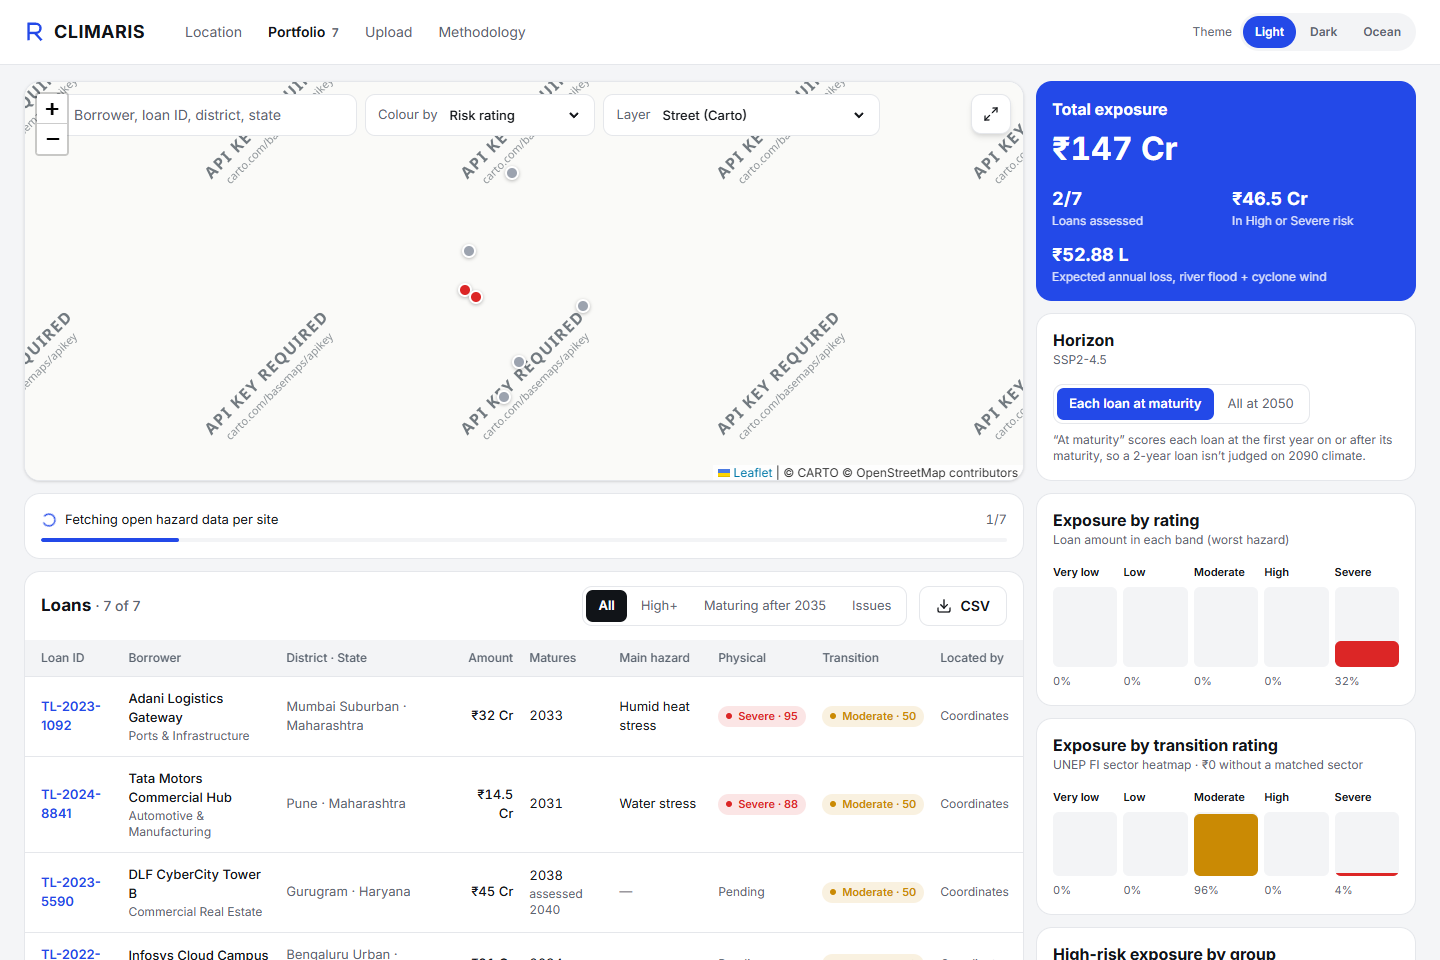
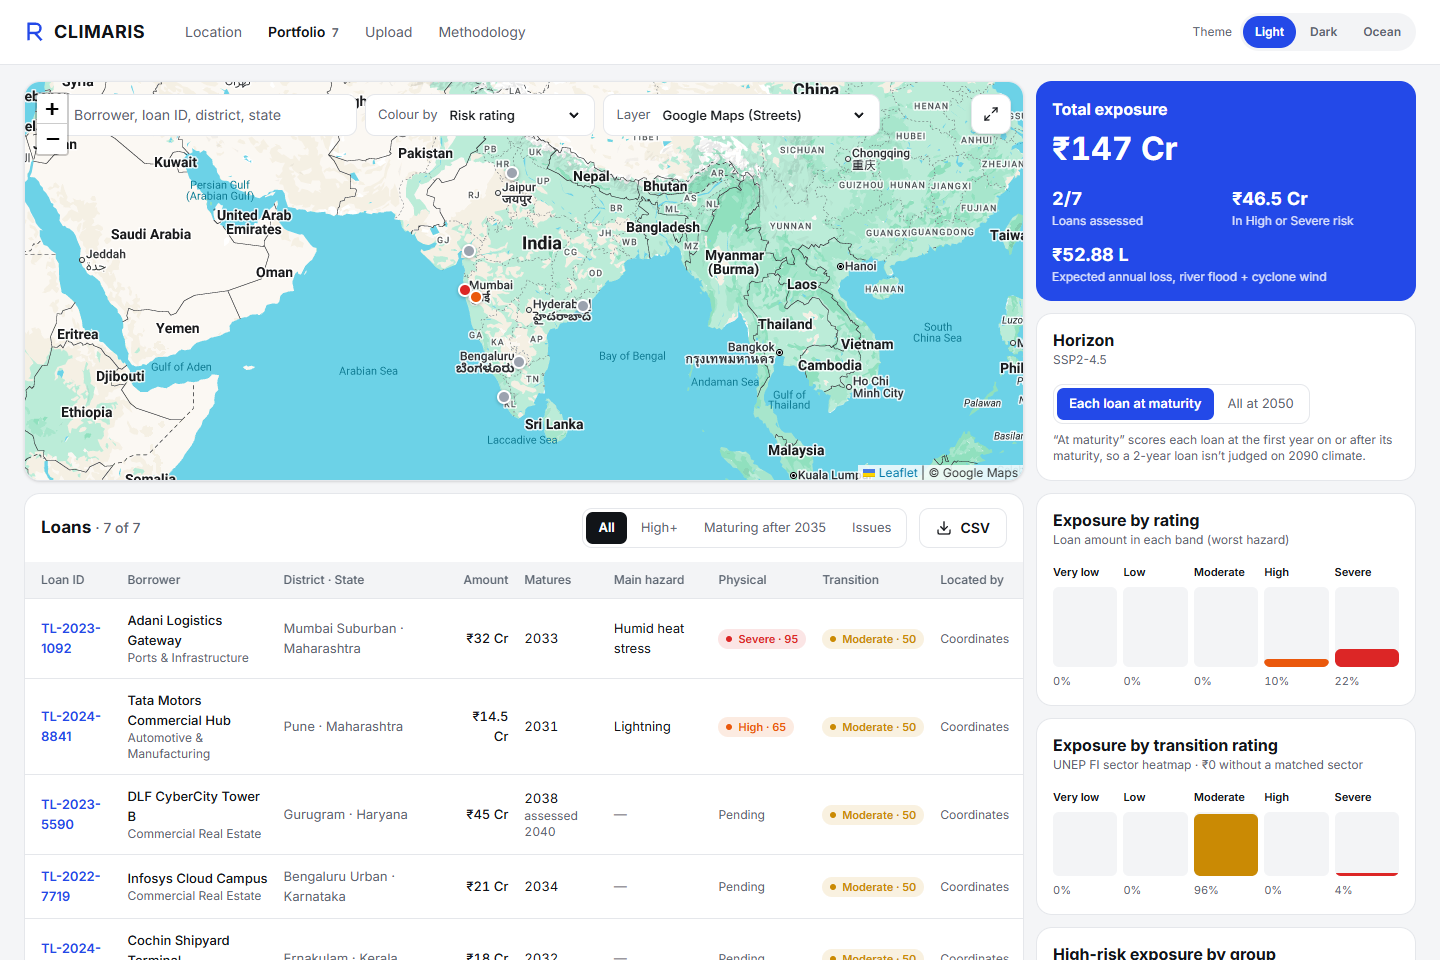
fix(map): eliminate Carto API key watermark, default to pristine Google Maps & Esri Dark Canvas

diff --git a/src/components/MapExplorer.tsx b/src/components/MapExplorer.tsx
@@ -87,11 +87,24 @@ const OVERLAYS: Record<Exclude<OverlayId, 'none'>, { label: string; color: strin
   },
 };
 
-const TILES: Record<BasemapStyle, { url: string; attribution: string }> = {
-  dark: { url: 'https://{s}.basemaps.cartocdn.com/dark_all/{z}/{x}/{y}{r}.png', attribution: '&copy; CARTO &copy; OpenStreetMap' },
-  satellite: { url: 'https://server.arcgisonline.com/ArcGIS/rest/services/World_Imagery/MapServer/tile/{z}/{y}/{x}', attribution: 'Tiles &copy; Esri' },
-  streets: { url: 'https://{s}.basemaps.cartocdn.com/rastertiles/voyager/{z}/{x}/{y}{r}.png', attribution: '&copy; CARTO &copy; OpenStreetMap' },
-  osm: { url: 'https://tile.openstreetmap.org/{z}/{x}/{y}.png', attribution: '&copy; OpenStreetMap contributors' },
+const TILES: Record<BasemapStyle, { url: string; attribution: string; subdomains?: string }> = {
+  dark: {
+    url: 'https://server.arcgisonline.com/ArcGIS/rest/services/Canvas/World_Dark_Gray_Base/MapServer/tile/{z}/{y}/{x}',
+    attribution: '&copy; Esri, DeLorme, NAVTEQ',
+  },
+  satellite: {
+    url: 'https://server.arcgisonline.com/ArcGIS/rest/services/World_Imagery/MapServer/tile/{z}/{y}/{x}',
+    attribution: 'Tiles &copy; Esri, Maxar',
+  },
+  streets: {
+    url: 'https://mt{s}.google.com/vt/lyrs=m&x={x}&y={y}&z={z}',
+    attribution: '&copy; Google Maps',
+    subdomains: '0123',
+  },
+  osm: {
+    url: 'https://tile.openstreetmap.org/{z}/{x}/{y}.png',
+    attribution: '&copy; OpenStreetMap contributors',
+  },
 };
 
 export const MapExplorer: React.FC<MapExplorerProps> = ({
@@ -193,7 +206,8 @@ export const MapExplorer: React.FC<MapExplorerProps> = ({
     const map = mapRef.current;
     if (!map) return;
     tileRef.current?.remove();
-    const tl = L.tileLayer(TILES[basemap].url, { attribution: TILES[basemap].attribution, maxZoom: 19, subdomains: 'abcd' });
+    const t = TILES[basemap];
+    const tl = L.tileLayer(t.url, { attribution: t.attribution, maxZoom: 19, subdomains: t.subdomains || 'abc' });
     tl.on('tileerror', () => {
       tl.setUrl('https://tile.openstreetmap.org/{z}/{x}/{y}.png');
     });

diff --git a/src/pages/PortfolioPage.tsx b/src/pages/PortfolioPage.tsx
@@ -25,7 +25,7 @@ export const PortfolioPage: React.FC<{
   const [q, setQ] = useState('');
   const [sel, setSel] = useState<string | null>(null);
   const [colour, setColour] = useState<'rating' | 'hazard'>('rating');
-  const [layer, setLayer] = useState<Layer>('street');
+  const [layer, setLayer] = useState<Layer>('google_roads');
 
   const rows: Row[] = useMemo(() => loans.map((l) => {
     const h = horizon === 'maturity' ? yearForMaturity(l.maturityYear) : year;
@@ -100,14 +100,13 @@ export const PortfolioPage: React.FC<{
             </label>
             <label className="flex items-center gap-2 min-h-[42px] px-3 rounded-[10px] bg-panel border border-line text-[13px] text-muted">Layer
               <select value={layer} onChange={(e) => setLayer(e.target.value as Layer)} className="bg-transparent text-ink font-medium outline-none">
+                <option value="google_roads">Google Maps (Streets)</option>
                 <option value="google_hybrid">Google Earth (Hybrid Satellite)</option>
                 <option value="google_sat">Google Earth (Satellite Only)</option>
-                <option value="google_roads">Google Maps (Streets)</option>
                 <option value="google_terrain">Google Maps (Terrain)</option>
-                <option value="street">Street (Carto)</option>
                 <option value="osm">OpenStreetMap (Free)</option>
-                <option value="satellite">Satellite (Esri)</option>
-                <option value="dark">Dark Matter (Carto)</option>
+                <option value="satellite">Satellite (Esri World Imagery)</option>
+                <option value="dark">Dark Canvas (Esri World Dark)</option>
                 <option value="topo">Topographic (OpenTopoMap)</option>
                 {((import.meta as { env?: Record<string, string> }).env?.VITE_MAPBOX_TOKEN) && (
                   <>

diff --git a/src/ui/MapView.tsx b/src/ui/MapView.tsx
@@ -49,14 +49,15 @@ const TILES: Record<string, { url: string; attr: string; subdomains?: string; ma
     attr: '&copy; <a href="https://www.openstreetmap.org/copyright">OpenStreetMap</a> contributors',
   },
   street: {
-    url: 'https://{s}.basemaps.cartocdn.com/rastertiles/voyager/{z}/{x}/{y}{r}.png',
-    attr: '&copy; CARTO &copy; OpenStreetMap contributors',
-    subdomains: 'abcd',
+    url: 'https://mt{s}.google.com/vt/lyrs=m&x={x}&y={y}&z={z}',
+    attr: '&copy; Google Maps',
+    subdomains: '0123',
+    maxZoom: 21,
   },
   dark: {
-    url: 'https://{s}.basemaps.cartocdn.com/dark_all/{z}/{x}/{y}{r}.png',
-    attr: '&copy; CARTO &copy; OpenStreetMap contributors',
-    subdomains: 'abcd',
+    url: 'https://server.arcgisonline.com/ArcGIS/rest/services/Canvas/World_Dark_Gray_Base/MapServer/tile/{z}/{y}/{x}',
+    attr: '&copy; Esri, DeLorme, NAVTEQ',
+    maxZoom: 16,
   },
   satellite: {
     url: 'https://server.arcgisonline.com/ArcGIS/rest/services/World_Imagery/MapServer/tile/{z}/{y}/{x}',

diff --git a/src/pages/LocationPage.tsx b/src/pages/LocationPage.tsx
@@ -122,10 +122,9 @@ export const LocationPage: React.FC<{
                 <option value="google_sat">Google Earth (Satellite Only)</option>
                 <option value="google_roads">Google Maps (Streets)</option>
                 <option value="google_terrain">Google Maps (Terrain)</option>
-                <option value="street">Street (Carto)</option>
                 <option value="osm">OpenStreetMap (Free)</option>
-                <option value="satellite">Satellite (Esri)</option>
-                <option value="dark">Dark Matter (Carto)</option>
+                <option value="satellite">Satellite (Esri World Imagery)</option>
+                <option value="dark">Dark Canvas (Esri World Dark)</option>
                 <option value="topo">Topographic (OpenTopoMap)</option>
                 {((import.meta as { env?: Record<string, string> }).env?.VITE_MAPBOX_TOKEN) && (
                   <>

diff --git a/README.md b/README.md
@@ -242,7 +242,7 @@ Climatrix includes multi-resolution basemaps accessible directly via the layer c
   ├── Google Maps (Streets)            ← Modern street network & landmark navigation
   ├── Google Maps (Terrain)            ← Shaded relief topography & contours
   ├── Esri World Imagery               ← Global GIS satellite baseline
-  ├── Carto Voyager / Dark Matter      ← High-contrast thematic basemaps
+  ├── Google Maps / Earth & Esri World  ← High-resolution satellite, vector street, & dark canvas basemaps
   └── OpenTopoMap                      ← Detailed contours and trail networks
 ```
 
